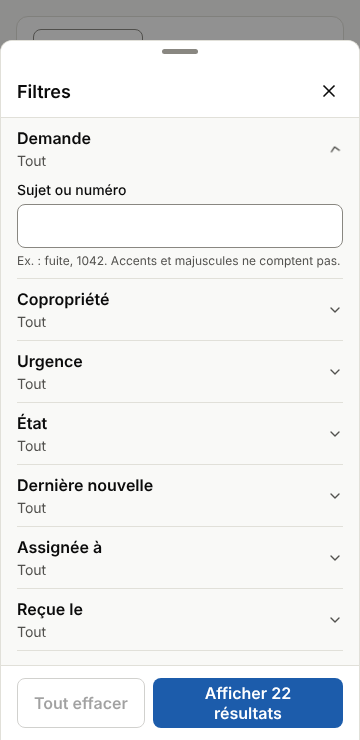
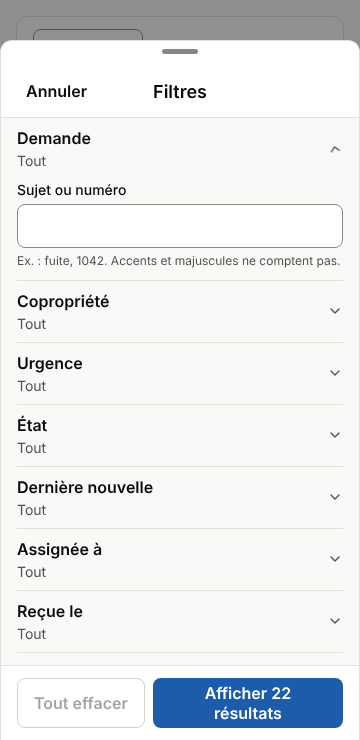
fix(overlay): titre de lc-sheet centré avec le bouton texte, comme sur iOS
Claude-Session: https://claude.ai/code/session_011nLZSByMD5Tys8DtCLJcd3

diff --git a/packages/angular/overlay/src/sheet/sheet.component.ts b/packages/angular/overlay/src/sheet/sheet.component.ts
@@ -34,7 +34,7 @@ interface Drag {
       <div class="lc-sheet__drag" (pointerdown)="onPointerDown($event)" (pointermove)="onPointerMove($event)" (pointerup)="onPointerUp($event)"
         (pointercancel)="onPointerCancel()" (lostpointercapture)="onPointerCancel()">
         <div class="lc-sheet__grip"><span class="lc-sheet__handle" aria-hidden="true"></span></div>
-        <header class="lc-sheet__header">
+        <header class="lc-sheet__header" [class.lc-sheet__header--text]="!!closeText()">
           @if (closeText(); as text) {
             <button lcButton type="button" fillMode="flat" themeColor="neutral" class="lc-sheet__close" autofocus (click)="open.set(false)">{{ text }}</button>
           }

diff --git a/packages/angular/overlay/src/sheet/sheet.component.css b/packages/angular/overlay/src/sheet/sheet.component.css
@@ -111,6 +111,21 @@ lc-sheet {
   font-weight: var(--lc-sys-font-weight-semibold);
 }
 
+/* Bouton texte (`closeText`) : comme les feuilles d'iOS, bouton à gauche et titre centré sur la feuille. */
+.lc-sheet__header--text {
+  display: grid;
+  grid-template-columns: 1fr minmax(0, auto) 1fr;
+  padding-inline: var(--lc-sys-space-2);
+}
+
+.lc-sheet__header--text .lc-sheet__close {
+  justify-self: start;
+}
+
+.lc-sheet__header--text .lc-sheet__title {
+  text-align: center;
+}
+
 .lc-sheet__body {
   flex: 1;
   min-block-size: 0;

diff --git a/docs/specs/2026-11-mouvement-ios.md b/docs/specs/2026-11-mouvement-ios.md
@@ -209,4 +209,4 @@ Brief de `ui-ux-designer` (2026-11-21) et maquette `docs/design/explorations/202
 11. Boutons du pied du tableau projetés par `ngProjectAs`, montés seulement feuille ouverte.
 12. 9 tokens au lieu de 7 (`sheet-card-width`, `sheet-card-max-height`, décision 22).
 13. Limites confirmées : geste et survol prouvés en Chromium seulement, Safari iOS non essayé.
-14. Décision 23 : « Annuler » est placé avant le titre, aligné à gauche (le titre n'est pas centré comme dans iOS) ; `closeWithoutApplying` retiré de `LC_LABELS`. QA S9 : GO (`ios-motion-browser.mjs all` 105 OK, `motion` 544 OK, `filter-date`, axe 10 cas).
+14. Décision 23 : « Annuler » à gauche, titre centré sur la feuille comme dans iOS (en-tête en grille avec `closeText`) ; `closeWithoutApplying` retiré de `LC_LABELS`. QA S9 : GO (`ios-motion-browser.mjs all` 105 OK, `motion` 544 OK, `filter-date`, axe 10 cas).
